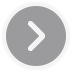
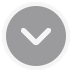
Collapsable notes.

Changed region(s): [[0.3889, 0.2778, 0.7222, 0.5278], [0.2778, 0.3889, 0.5278, 0.7222]]

diff --git a/split/time-machine.js b/split/time-machine.js
@@ -2264,6 +2264,7 @@ class PersonRow {
     this.summaryDirection = summaryDir; // DIR_KEEP or DIR_SPLIT for keep vs. split person summary row. Null if not summary row.
     this.stapledRows = null; // list of other PersonRows that are "stapled" to this one and must be kept in the same group.
     this.isNoteRow = isNoteRow; // flag for whether this is just a "Note" row, so gedcomx has 1 person with only "notes".
+    this.isNoteCollapsed = false;
   }
 
   updatePersonDisplay() {
@@ -2710,7 +2711,7 @@ class PersonRow {
           colspan++;
         }
       }
-      return colspan;
+      return colspan > 1 ? " colspan='" + colspan + "'" : "";
     }
 
     // === getRowPersonCells ===
@@ -2721,8 +2722,8 @@ class PersonRow {
       html += getSummaryParentsHtml(splitDirection);
     }
     else if (this.isNoteRow) {
-      html += "<td class='" + rowClass + bottomClass + " note-row'" + " colspan='" + getNoteColspan() + "'>" +
-        this.getNoteContentHtml() + "</td>\n";
+      html += "<td class='note-row " + rowClass + bottomClass + "'" + getNoteColspan() + " id='note-row-cell-" + this.id + "'>" +
+        this.getNoteRowContentHtml() + "</td>\n";
     }
     else {
       html += "<td class='" + rowClass + bottomClass + "'" + rowSpan + ">" + this.personDisplay.name + "</td>\n";
@@ -2774,7 +2775,7 @@ class PersonRow {
         }
       }
     }
-    else {
+    else if (!this.isNoteRow) {
       addColumn(COLUMN_SPOUSE_NAME, "", "", bottomClass);
       addColumn(COLUMN_SPOUSE_FACTS, "", "", bottomClass);
       addColumn(COLUMN_CHILD_NAME, "", "", bottomClass);
@@ -2864,6 +2865,9 @@ class PersonRow {
     else if (this.isOwsRow()) {
       cellClass = "ord-row";
     }
+    else if (this.isNoteRow) {
+      cellClass = "note-row";
+    }
     else {
       cellClass ="merge-id" + (tabId === MERGE_VIEW && this.isDupNode ? "-dup" : "");
     }
@@ -2900,9 +2904,26 @@ class PersonRow {
     return noteSubject ? encode(noteSubject) : "";
   }
 
-  getNoteContentHtml() {
+  getNoteRowContentHtml() {
     let text = this.gedcomx.persons[0].notes[0].text;
-    return text ? encode(text).replaceAll("\n", "<br>") : "";
+    if (!text) {
+      return "";
+    }
+    let html = "";
+    if (text.length > 120 || text.includes("\n")) {
+      html += "<img alt='" + (this.isNoteCollapsed ? "(more)" : "(less)")
+        + "' class='arrow-image' src='../graph/images/arrows/" + (this.isNoteCollapsed ? "right" : "down")
+        + ".png' onclick='toggleCollapseNote(event, \"" + this.id + "\")'>";
+      if (this.isNoteCollapsed) {
+        if (text.length > 120) {
+          text = text.substring(0, 120) + "...";
+        }
+        if (text.includes("\n")) {
+          text = text.replace(/\n[\s\S]*/, "...");
+        }
+      }
+    }
+    return html + encode(text).replaceAll("\n", "<br>");
   }
 
   getRecordDateHtml(rowSpan, clickInfo) {
@@ -3014,7 +3035,7 @@ class PersonRow {
     }
 
     // Person info
-    let rowClass = this.mergeNode && !this.mergeNode.isLeafNode() ? 'merge-node' : 'identity-gx';
+    let rowClass = this.isNoteRow ? 'note-row' : 'identity-gx'; //this.mergeNode && !this.mergeNode.isLeafNode() ? 'merge-node' : 'identity-gx';
     html += this.getRowPersonCells(this.gedcomx, this.personId, rowClass, usedColumns, bottomClass, this.id, rowSpan, isKeep ? DIR_KEEP : DIR_MOVE);
     html += "</tr>\n";
     return html;
@@ -3032,6 +3053,15 @@ class PersonRow {
   // Add an ordinance PersonRow as a "child" of a FT person row.
   addOwsChild(owsPersonRow) {
     this.childOwsRows.push(owsPersonRow);
+  }
+}
+
+function toggleCollapseNote(event, rowId) {
+  doNotSelect(event);
+  let personRow = personRowMap[rowId];
+  if (personRow) {
+    personRow.isNoteCollapsed = !personRow.isNoteCollapsed;
+    $("#note-row-cell-" + rowId).html(personRow.getNoteRowContentHtml());
   }
 }
 

diff --git a/split/time-machine.css b/split/time-machine.css
@@ -222,8 +222,12 @@ td {
     background-color: #dae9f1;
 }
 .ord-row {
-    border: 1px solid #ecf1e9;
+    border: 2px solid #ecf1e9;
     background-color: #ffffff;
+}
+.note-row {
+    border: 2px solid #e1d1b8;
+    background-color: #f8f1e8;
 }
 .end-gx {
     border: 1px solid #dad9ce;
@@ -474,4 +478,8 @@ a:hover {
 }
 .element-wrapper {
     display: inline-block;
+}
+.arrow-image {
+    height: 1em;
+    width: auto;
 }
